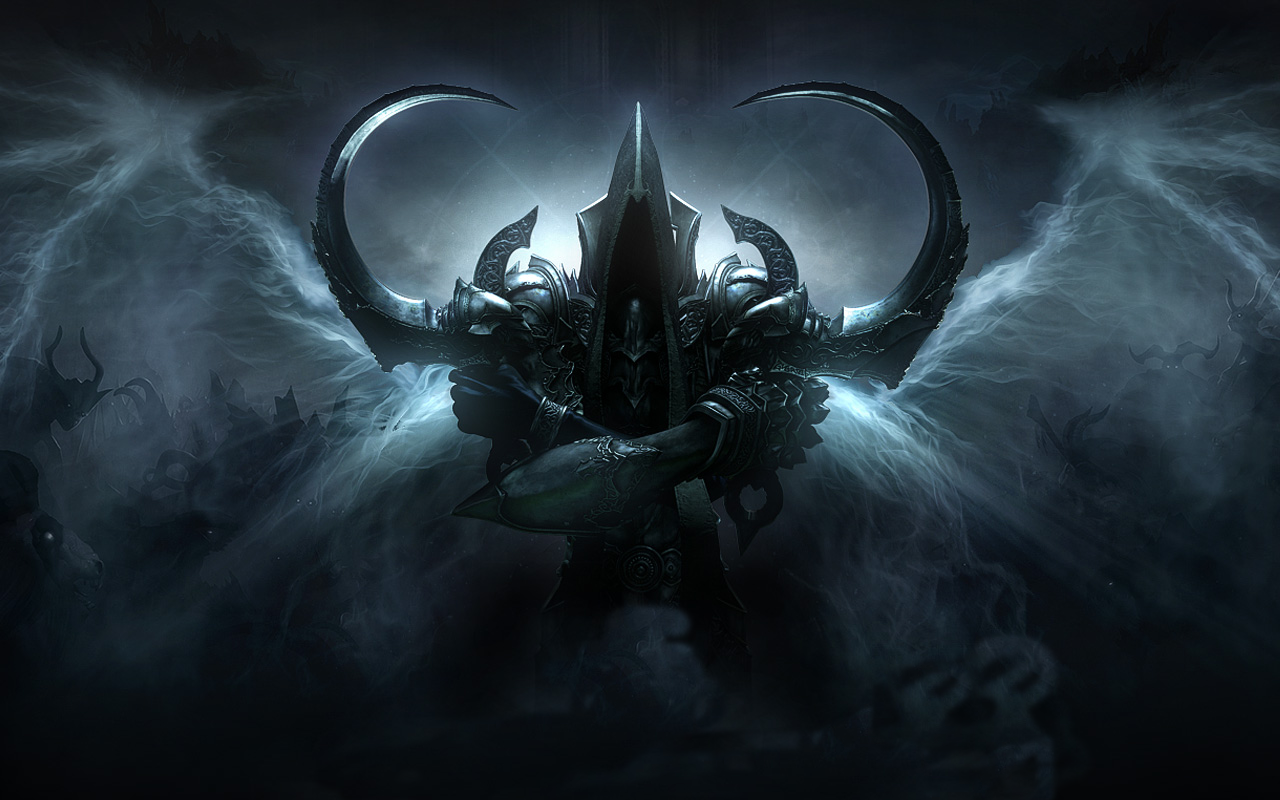
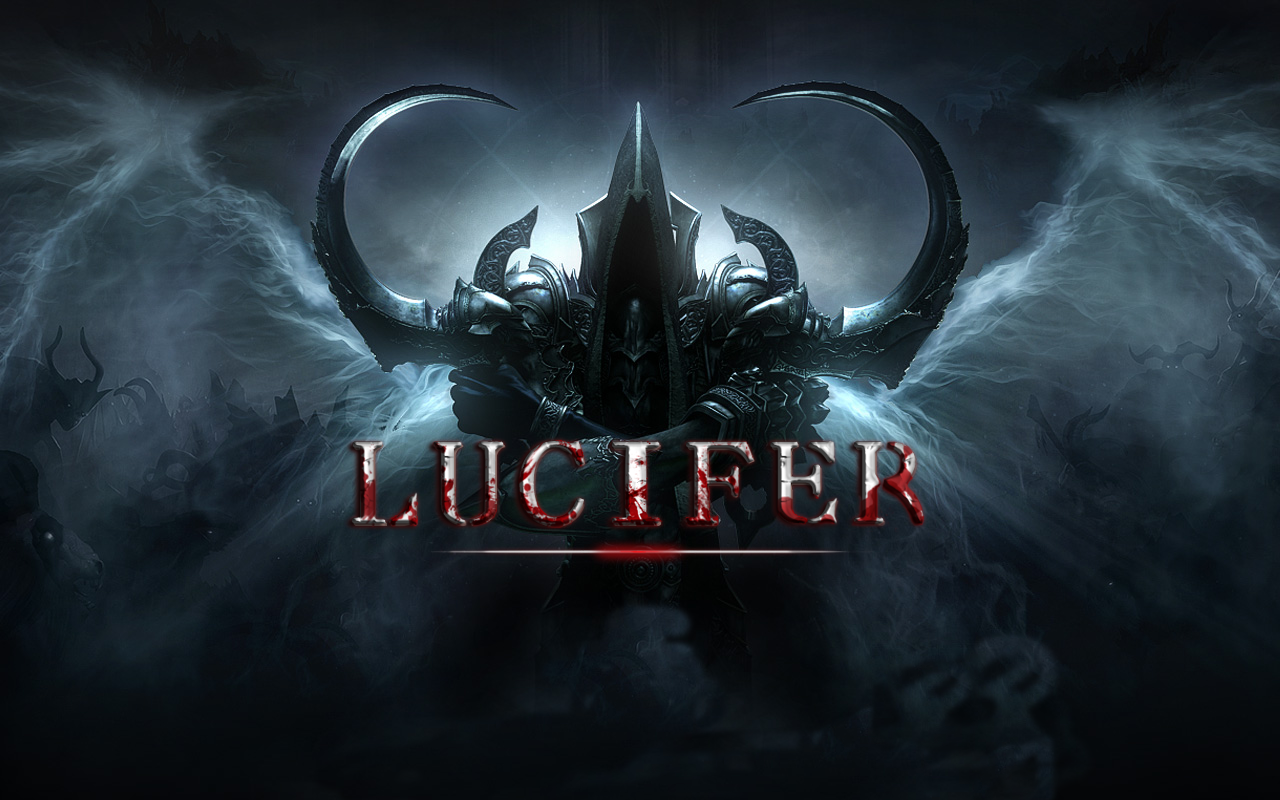
Update : loading bg add

Changed region(s): [[0.25, 0.5312, 0.7188, 0.7188]]

diff --git a/lucifer/lucifer/static/js/game/Lucifer_menuSelect.js b/lucifer/lucifer/static/js/game/Lucifer_menuSelect.js
@@ -6,8 +6,8 @@ var menuSelectScene =
 {	
 	preload: function()
 	{
-		this.load.spritesheet('button', '../../static/images/game/Menu/startbutton.png', 200, 100);
-		this.load.spritesheet('closebtn', '../../static/images/game/Menu/close.png', 200, 100);
+		this.load.spritesheet('button', '../../static/images/game/Menu/startbutton.png', 355, 54);
+		this.load.spritesheet('closebtn', '../../static/images/game/Menu/close.png', 355, 54);
 		this.load.image('background', '../../static/images/game/Menu/menu.png');
 	},
 
@@ -16,11 +16,14 @@ var menuSelectScene =
 
 		background = this.add.tileSprite(0, 0, 1280, 800, 'background');
 
-		button = this.add.button(this.world.centerX - 95, 400, 'button', up, this);
-		closebtn = this.add.button(this.world.centerX - 95, 550, 'closebtn', exit, this);
+		button = this.add.button(this.world.centerX - 180, 590, 'button', up, this, 1, 0);
+		closebtn = this.add.button(this.world.centerX - 180, 660, 'closebtn', exit, this, 1, 0);
 
     	button.onInputUp.add(up, this);
+    	//button.onInputOver.add(over, this);
     	closebtn.onInputUp.add(exit, this);
+    	//closebtn.onInputOver.add(over, this);
+
 	},
 };
 

diff --git a/lucifer/lucifer/static/js/game/stage1.js b/lucifer/lucifer/static/js/game/stage1.js
@@ -121,7 +121,7 @@ function stageOne_Create()
 	Background_map.addTilesetImage('Stage1_TileSet', 'Stage1_TileSet');
 	Background_map.addTilesetImage('Collision_Tile', 'Collision_Tile');
 	Background_map.addTilesetImage('Object_WallTileSet', 'Object_WallTileSet');
-	Background_map.addTilesetImage('Object_Tree2_TileSet', 'Object_Tree2_TileSet');
+	//Background_map.addTilesetImage('Object_Tree2_TileSet', 'Object_Tree2_TileSet');
 
 	Stage1 = Background_map.createLayer('Tile Layer 1');
 	Stage1_Wall_Layer = Background_map.createLayer('Object Layer');

diff --git a/lucifer/lucifer/static/js/game/Lucifer_loadScene.js b/lucifer/lucifer/static/js/game/Lucifer_loadScene.js
@@ -11,7 +11,7 @@ var loadScene =
 		var loadingLabel = Lucifer_Game.add.text(80, 150, 'loading...',
 											{font: '15px Courier', fill: '#ffffff'});
 
-		Lucifer_Game.load.spritesheet('Menu_Image', '../../static/images/game/Menu/Menu.png', 1280, 800);		
+		Lucifer_Game.load.spritesheet('Menu_Image', '../../static/images/game/Menu/load_bg.png', 1280, 800);		
 		
 		//Stage Preload
 		//----------------------------------------------------------------------------------------------------------
